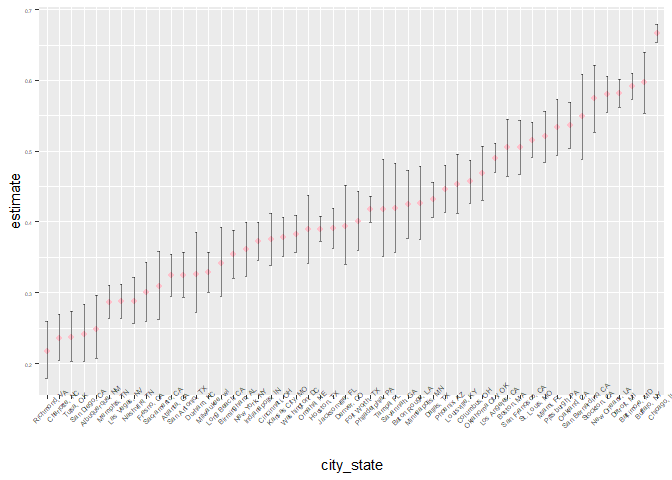
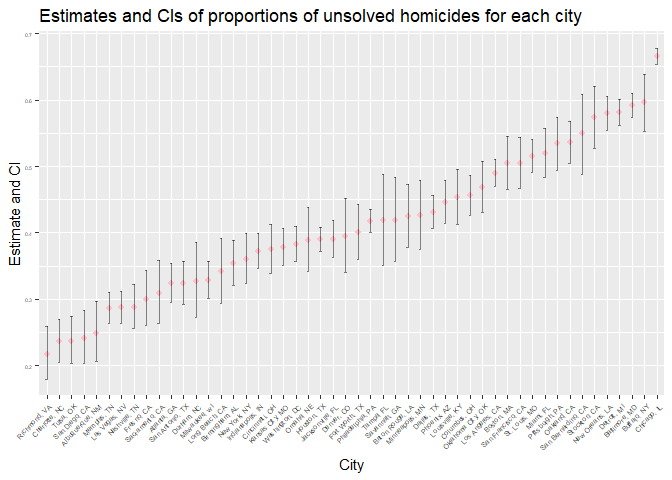
comments added

diff --git a/p8105_hw5_rj2543.md b/p8105_hw5_rj2543.md
@@ -6,7 +6,7 @@ November 3, 2018
 Problem 1
 =========
 
-This zip file contains data from a longitudinal study that included a control arm and an experimental arm. Data for each participant is included in a separate file, and file names include the subject ID and arm.
+The original zip file contains data from a longitudinal study that included a control arm and an experimental arm. Data for each participant is included in a separate file, and file names include the subject ID and arm.
 
 Create a tidy dataframe containing data from all participants, including the subject ID, arm, and observations over time:
 
@@ -385,7 +385,7 @@ plot_patient = function(a){ # write a plot function which can be applied to each
     )
 }
 
-map(patient_tidy %>% distinct(id) %>% pull(), plot_patient) # apply functions to all distinct subjects
+map(patient_tidy %>% distinct(id) %>% pull(), plot_patient) # apply plot function to all distinct subjects
 ```
 
     ## [[1]]
@@ -437,10 +437,12 @@ map(patient_tidy %>% distinct(id) %>% pull(), plot_patient) # apply functions to
 
 ![](p8105_hw5_rj2543_files/figure-markdown_github/spaghetti%20plot-10.png)
 
+**For most subjects, experimental arms obtained higher observations than control arms. Also, experimental arms experienced a gradually increasing trend in observations over time while observations of control arms fluctuated. In plots for patient 1, 5, 6, 7 and 8, two observation lines have no intersections. However, for patient 2, 3, 4, 9 and 10, observations of control arms might exceed experimental arms in beginning and middle of the study.**
+
 Problem 2
 =========
 
-The Washington Post has gathered data on homicides in 50 large U.S. cities and made the data available through a GitHub repository here. You can read their accompanying article here.
+The Washington Post has gathered data on homicides in 50 large U.S. cities and made the data available through a GitHub repository. You can read their accompanying article.
 
 ``` r
 homicide = read_csv("./data2/homicide-data.csv") %>% 
@@ -483,7 +485,11 @@ homicide
     ## # ... with 52,169 more rows, and 6 more variables: victim_sex <chr>,
     ## #   city <chr>, state <chr>, lat <dbl>, lon <dbl>, disposition <chr>
 
-Describe the raw data. Create a city\_state variable (e.g. “Baltimore, MD”) and then summarize within cities to obtain the total number of homicides and the number of unsolved homicides (those for which the disposition is “Closed without arrest” or “Open/No arrest”).
+-   Describe the raw data.
+
+**Raw data has 52179 rows for different observations. And 12 columns referred to uid, reported\_date, victim\_last, victim\_first, victim\_race, victim\_age, victim\_sex, city, state, lat, lon, disposition variables.**
+
+-   Create a city\_state variable (e.g. “Baltimore, MD”) and then summarize within cities to obtain the total number of homicides and the number of unsolved homicides (those for which the disposition is “Closed without arrest” or “Open/No arrest”).
 
 ``` r
 nhomicide = homicide %>% 
@@ -504,28 +510,72 @@ nunsolved = homicide %>%
   select(-disposition_open_no_arrest) %>% 
   rename(n_unsolved = n)
 
-full_join(nhomicide, nunsolved) # combine above information in one dataframe without omit
+n_homi_unsolved = full_join(nhomicide, nunsolved) # combine above information in one dataframe without omit
 ```
 
     ## Joining, by = "city_state"
 
-    ## # A tibble: 50 x 3
-    ## # Groups:   city_state [?]
-    ##    city_state      n_homicide n_unsolved
-    ##    <chr>                <int>      <int>
-    ##  1 Albuquerque, NM         52         94
-    ##  2 Atlanta, GA             58        315
-    ##  3 Baltimore, MD          152       1673
-    ##  4 Baton Rouge, LA         16        180
-    ##  5 Birmingham, AL          64        283
-    ##  6 Buffalo, NY              8        311
-    ##  7 Charlotte, NC           44        162
-    ##  8 Chicago, IL            387       3686
-    ##  9 Cincinnati, OH          49        260
-    ## 10 Columbus, OH            80        495
-    ## # ... with 40 more rows
+``` r
+n_homi_unsolved %>% 
+  knitr::kable()
+```
 
-For the city of Baltimore, MD, use the prop.test function to estimate the proportion of homicides that are unsolved; save the output of prop.test as an R object, apply the broom::tidy to this object and pull the estimated proportion and confidence intervals from the resulting tidy dataframe.
+| city\_state        |  n\_homicide|  n\_unsolved|
+|:-------------------|------------:|------------:|
+| Albuquerque, NM    |           52|           94|
+| Atlanta, GA        |           58|          315|
+| Baltimore, MD      |          152|         1673|
+| Baton Rouge, LA    |           16|          180|
+| Birmingham, AL     |           64|          283|
+| Buffalo, NY        |            8|          311|
+| Charlotte, NC      |           44|          162|
+| Chicago, IL        |          387|         3686|
+| Cincinnati, OH     |           49|          260|
+| Columbus, OH       |           80|          495|
+| Dallas, TX         |           78|          676|
+| Denver, CO         |           46|          123|
+| Detroit, MI        |           16|         1466|
+| Durham, NC         |           11|           90|
+| Fort Worth, TX     |           35|          220|
+| Fresno, CA         |           23|          146|
+| Houston, TX        |          346|         1147|
+| Indianapolis, IN   |          102|          492|
+| Jacksonville, FL   |          141|          456|
+| Kansas City, MO    |           36|          450|
+| Las Vegas, NV      |          175|          397|
+| Long Beach, CA     |           27|          129|
+| Memphis, TN        |           50|          433|
+| Miami, FL          |           63|          387|
+| Milwaukee, wI      |           37|          366|
+| Minneapolis, MN    |           31|          156|
+| Nashville, TN      |           57|          221|
+| New Orleans, LA    |           98|          832|
+| New York, NY       |           17|          226|
+| Oklahoma City, OK  |           11|          315|
+| Omaha, NE          |           10|          159|
+| Philadelphia, PA   |           92|         1268|
+| Phoenix, AZ        |           96|          408|
+| Richmond, VA       |           20|           93|
+| Sacramento, CA     |           23|          116|
+| San Antonio, TX    |           87|          270|
+| San Bernardino, CA |           19|          151|
+| San Diego, CA      |           64|          111|
+| San Francisco, CA  |            1|          335|
+| Savannah, GA       |           12|          103|
+| St. Louis, MO      |           40|          865|
+| Stockton, CA       |           11|          255|
+| Tampa, FL          |            8|           87|
+| Tulsa, OK          |           55|          138|
+| Washington, DC     |           74|          515|
+| Boston, MA         |           NA|          310|
+| Los Angeles, CA    |           NA|         1106|
+| Louisville, KY     |           NA|          261|
+| Oakland, CA        |           NA|          508|
+| Pittsburgh, PA     |           NA|          337|
+
+**The table shows the total number of homicides and the number of unsolved homicides (those for which the disposition is “Closed without arrest” or “Open/No arrest”) for each city.**
+
+-   For the city of Baltimore, MD, use the prop.test function to estimate the proportion of homicides that are unsolved; save the output of prop.test as an R object, apply the broom::tidy to this object and pull the estimated proportion and confidence intervals from the resulting tidy dataframe.
 
 ``` r
 unsolved = homicide %>% 
@@ -536,12 +586,6 @@ unsolved = homicide %>%
   rename(unsolved_homicide = disposition_open_no_arrest) %>% 
   pull(n) # pull certain vector for prop.test
 
-unsolved
-```
-
-    ## [1] 1154 1673
-
-``` r
 result = prop.test(unsolved[1], sum(unsolved)) # save initial output of prop.test
 
 pull1 = function(x){ # write a function to pull several variables
@@ -551,19 +595,12 @@ pull1 = function(x){ # write a function to pull several variables
 }
 
 key = c("estimate", "conf_low", "conf_high") # referred to estimated proportion, low limit and upper limit of confidence interval
-map(key, pull1)
+result1 = map(key, pull1)
 ```
 
-    ## [[1]]
-    ## [1] 0.4082066
-    ## 
-    ## [[2]]
-    ## [1] 0.3900496
-    ## 
-    ## [[3]]
-    ## [1] 0.4266151
+**For Baltimore, MD, the estimated proportion is 0.4082066 , the confidence interval is (0.3900496, 0.4266151).**
 
-Now run prop.test for each of the cities in your dataset, and extract both the proportion of unsolved homicides and the confidence interval for each. Do this within a “tidy” pipeline, making use of purrr::map, purrr::map2, list columns and unnest as necessary to create a tidy dataframe with estimated proportions and CIs for each city.
+-   Now run prop.test for each of the cities in your dataset, and extract both the proportion of unsolved homicides and the confidence interval for each. Do this within a “tidy” pipeline, making use of purrr::map, purrr::map2, list columns and unnest as necessary to create a tidy dataframe with estimated proportions and CIs for each city.
 
 ``` r
 ptest = function(x, y){ # write a function to run prop.test and extract certain information which can applied to each city
@@ -571,7 +608,7 @@ ptest = function(x, y){ # write a function to run prop.test and extract certain 
     broom::tidy() %>% 
     janitor::clean_names() %>%
     select(estimate, conf_low, conf_high) %>% # referred to estimated proportion, low limit and upper limit of confidence interval
-    unite(conf_low, conf_high, col = "ci", sep = " ~ ") # unite low limit and upper limit to obtain interval
+    unite(conf_low, conf_high, col = "CI", sep = " ~ ") # unite low limit and upper limit to obtain interval
 }
 
 homi_unsolved = homicide %>% 
@@ -586,39 +623,82 @@ homi_unsolved = homicide %>%
   filter(!is.na(true) & !is.na(sum)) %>% # omit NA for prop.test
   mutate(prop = map2(.x = true, .y = sum, ~ptest(.x, .y))) %>% # use purrr:map2 to apply function which requires 2 argument input for prop.test
   unnest() %>% # unnest to be tidy
-  select(-true, -sum) 
+  select(-true, -sum)
 
-homi_unsolved
+homi_unsolved %>% 
+  knitr::kable()
 ```
 
-    ## # A tibble: 50 x 3
-    ## # Groups:   city_state [50]
-    ##    city_state      estimate ci                                   
-    ##    <chr>              <dbl> <chr>                                
-    ##  1 Albuquerque, NM    0.249 0.206544173424625 ~ 0.296019585491696
-    ##  2 Atlanta, GA        0.324 0.294584103381076 ~ 0.354308374877405
-    ##  3 Baltimore, MD      0.592 0.573384885712592 ~ 0.609950397416565
-    ##  4 Baton Rouge, LA    0.425 0.377214266895452 ~ 0.473231426040766
-    ##  5 Birmingham, AL     0.354 0.32077965059004 ~ 0.388144469939991 
-    ##  6 Boston, MA         0.505 0.464621930200304 ~ 0.545088051772638
-    ##  7 Buffalo, NY        0.597 0.55327995203596 ~ 0.639126907009456 
-    ##  8 Charlotte, NC      0.236 0.204897924056059 ~ 0.26972300875139 
-    ##  9 Chicago, IL        0.666 0.653315959605912 ~ 0.678340172546466
-    ## 10 Cincinnati, OH     0.375 0.338708351485518 ~ 0.411978877581487
-    ## # ... with 40 more rows
+| city\_state        |   estimate| CI                                    |
+|:-------------------|----------:|:--------------------------------------|
+| Albuquerque, NM    |  0.2486772| 0.206544173424625 ~ 0.296019585491696 |
+| Atlanta, GA        |  0.3237410| 0.294584103381076 ~ 0.354308374877405 |
+| Baltimore, MD      |  0.5917934| 0.573384885712592 ~ 0.609950397416565 |
+| Baton Rouge, LA    |  0.4245283| 0.377214266895452 ~ 0.473231426040766 |
+| Birmingham, AL     |  0.3537500| 0.32077965059004 ~ 0.388144469939991  |
+| Boston, MA         |  0.5048860| 0.464621930200304 ~ 0.545088051772638 |
+| Buffalo, NY        |  0.5969290| 0.55327995203596 ~ 0.639126907009456  |
+| Charlotte, NC      |  0.2358079| 0.204897924056059 ~ 0.26972300875139  |
+| Chicago, IL        |  0.6659440| 0.653315959605912 ~ 0.678340172546466 |
+| Cincinnati, OH     |  0.3746398| 0.338708351485518 ~ 0.411978877581487 |
+| Columbus, OH       |  0.4566421| 0.42673723369542 ~ 0.486857870833612  |
+| Dallas, TX         |  0.4313976| 0.406756601975814 ~ 0.456378439980533 |
+| Denver, CO         |  0.3942308| 0.340062607947322 ~ 0.451047345213141 |
+| Detroit, MI        |  0.5819770| 0.562405580460206 ~ 0.601296150860959 |
+| Durham, NC         |  0.3260870| 0.27178995367988 ~ 0.385313841964919  |
+| Fort Worth, TX     |  0.4007286| 0.35967418214181 ~ 0.443193142081845  |
+| Fresno, CA         |  0.2997947| 0.259819676927161 ~ 0.342982066477001 |
+| Houston, TX        |  0.3898708| 0.37223327325934 ~ 0.407798389931692  |
+| Indianapolis, IN   |  0.3721634| 0.346140290568324 ~ 0.398938003775654 |
+| Jacksonville, FL   |  0.3904110| 0.362415282311442 ~ 0.419136106447154 |
+| Kansas City, MO    |  0.3781513| 0.350620282770478 ~ 0.406478328751138 |
+| Las Vegas, NV      |  0.2874728| 0.263866218960014 ~ 0.312276398971245 |
+| Long Beach, CA     |  0.3412698| 0.294018189699122 ~ 0.391803144400316 |
+| Los Angeles, CA    |  0.4900310| 0.4692208307642 ~ 0.510875439229204   |
+| Louisville, KY     |  0.4531250| 0.412060862911807 ~ 0.494823450153796 |
+| Memphis, TN        |  0.2859974| 0.263477484119867 ~ 0.309616149261083 |
+| Miami, FL          |  0.5201613| 0.483580741296006 ~ 0.556530845651561 |
+| Milwaukee, wI      |  0.3282511| 0.300882132591065 ~ 0.356818634161782 |
+| Minneapolis, MN    |  0.4262295| 0.375258664448933 ~ 0.478773928945081 |
+| Nashville, TN      |  0.2881356| 0.25657531626955 ~ 0.321850324338208  |
+| New Orleans, LA    |  0.5801953| 0.554119861939092 ~ 0.60583630000512  |
+| New York, NY       |  0.3604466| 0.323045349638376 ~ 0.399583336279753 |
+| Oakland, CA        |  0.5364308| 0.504058764486028 ~ 0.568503654694674 |
+| Oklahoma City, OK  |  0.4687500| 0.430568582043807 ~ 0.507293651377021 |
+| Omaha, NE          |  0.3887531| 0.341570433791967 ~ 0.438059278048271 |
+| Philadelphia, PA   |  0.4175173| 0.399929824122497 ~ 0.435315103271893 |
+| Phoenix, AZ        |  0.4463895| 0.413911609820167 ~ 0.479323738785709 |
+| Pittsburgh, PA     |  0.5340729| 0.494270601334985 ~ 0.573454475783427 |
+| Richmond, VA       |  0.2167832| 0.179316790149934 ~ 0.259426013612937 |
+| Sacramento, CA     |  0.3085106| 0.262696771965682 ~ 0.358307361229133 |
+| San Antonio, TX    |  0.3241297| 0.292632890050293 ~ 0.357271465292346 |
+| San Bernardino, CA |  0.5490909| 0.488194065310823 ~ 0.608593625223183 |
+| San Diego, CA      |  0.2407809| 0.202980015350393 ~ 0.282984577589831 |
+| San Francisco, CA  |  0.5052790| 0.466550800828087 ~ 0.5439452451418   |
+| Savannah, GA       |  0.4186992| 0.356802537958673 ~ 0.483177703891817 |
+| St. Louis, MO      |  0.5158020| 0.491576783475526 ~ 0.539954142952277 |
+| Stockton, CA       |  0.5743243| 0.526756951960011 ~ 0.620585546373976 |
+| Tampa, FL          |  0.4182692| 0.351002961140434 ~ 0.488604953963223 |
+| Tulsa, OK          |  0.2367067| 0.203187251823547 ~ 0.273758451227957 |
+| Washington, DC     |  0.3828996| 0.356923989862577 ~ 0.409551793478618 |
 
-Create a plot that shows the estimates and CIs for each city – check out geom\_errorbar for a way to add error bars based on the upper and lower limits. Organize cities according to the proportion of unsolved homicides.
+-   Create a plot that shows the estimates and CIs for each city – check out geom\_errorbar for a way to add error bars based on the upper and lower limits. Organize cities according to the proportion of unsolved homicides.
 
 ``` r
 homi_unsolved %>% 
-  separate(col = ci, into = c("lower", "upper"), sep = " ~ ") %>% # prepare data for geom_errorbar "aes"
+  separate(col = CI, into = c("lower", "upper"), sep = " ~ ") %>% # prepare data for geom_errorbar "aes"
   mutate(lower = as.numeric(lower), upper = as.numeric(upper)) %>% 
   ungroup() %>% 
   mutate(city_state = forcats::fct_reorder(city_state, estimate)) %>% # organize cities in ascending order of proportion of unsolved homicides
   ggplot() +
   geom_point(aes(x = city_state, y = estimate), color = "pink", size = 1.8) + # plot estimates for each city
   geom_errorbar(aes(x = city_state, ymin = lower, ymax = upper), width = 0.2, alpha = 0.5) + # add error bars based on upper and lower limits of CI for each city
-  theme(axis.text.x = element_text(size = 5, angle = 45),
+  labs(
+    title = "Estimates and CIs of proportions of unsolved homicides for each city",
+    x = "City",
+    y = "Estimate and CI"
+  ) +
+  theme(axis.text.x = element_text(size = 5, angle = 45, hjust = 1),
         axis.text.y = element_text(size = 4)) # make city_state names readable
 ```
 
